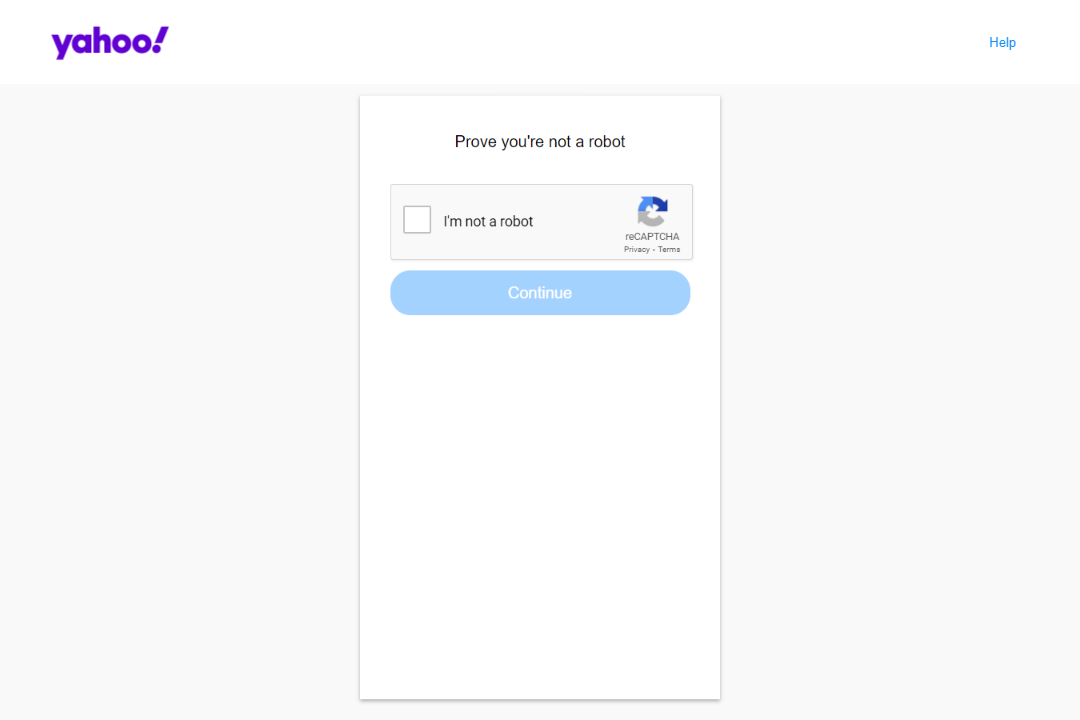
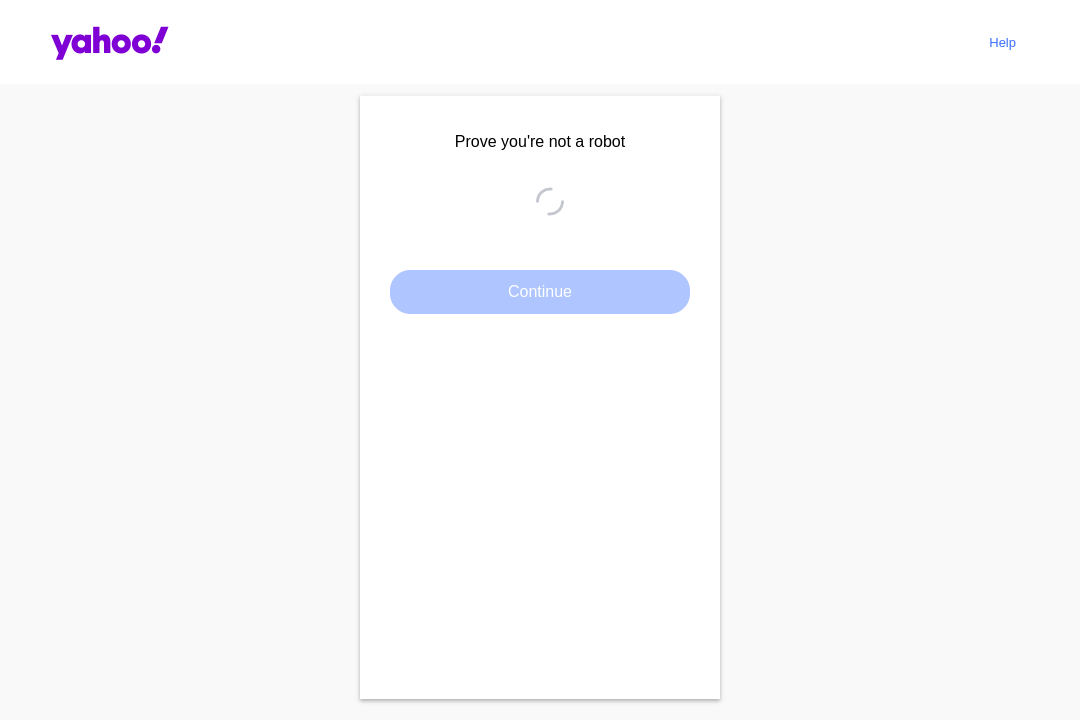
trying captcha

diff --git a/models/YahooMail.js b/models/YahooMail.js
@@ -17,7 +17,13 @@ module.exports = class YahooMail {
 
     async createMailAccount() {
         // browser = await puppeteer.launch({ headless: true });
-        puppeteer.launch({ headless: false }).then(async browser => {
+        puppeteer.launch({ 
+            ignoreDefaultArgs: true,
+            headless: false,
+            executablePath: '/usr/bin/google-chrome',
+            args: [
+            ],
+        }).then(async browser => {
             const page = await browser.newPage();
             await page.setViewport({
                 width: 1080,
@@ -49,7 +55,7 @@ module.exports = class YahooMail {
                 'password': faker.internet.password(),
                 'shortCountryCode': 'RU',
                 'phone': phoneNumber,
-                'mm': date.getMonth(),
+                'mm': Math.floor(Math.random() * 11) + 1,
                 'dd': Math.floor(Math.random() * 28) + 1,
                 'yyyy': date.getFullYear(),
             }
@@ -169,18 +175,40 @@ module.exports = class YahooMail {
 
                 const apiKey = '3bf8b2b71f3e87f9ab2862df0dfead26'
 
-                const requestId = await initiateCaptchaRequest(apiKey);
+                //const requestId = await initiateCaptchaRequest(apiKey);
 
-                const response = await pollForRequestResults(apiKey, requestId);
-                console.log(response)
+                // const response = await pollForRequestResults(apiKey, requestId);
+                // console.log(response)
+                // await page.evaluate((response)=> {
+                //     document.getElementById('g-recaptcha-response').innerText=response 
+                // },response);
+
+                // page.click('#recaptcha-submit');
+
+                // let pageCookies = await page.cookies()
+                // for(let i=0; i<pageCookies.length;i++) {
+                //     if(pageCookies[i]['name'] === 'AS') {
+                //         pageCookies[i]['SameSite'] = 'None';
+                //         page.setCookie(pageCookies[i]);
+                //         console.log('twerkabay')
+                //     }
+                // }
+                page.waitFor(2000)
+                
+                let frameSelector = await page.$('#recaptcha-iframe')
+                let myHTML = await frameSelector.contentFrame()
+                let frameinTwo = await page.$('#recaptcha-iframe')
+                let myHTML2 = await frameinTwo.contentFrame()
+                //#recaptcha-script
                 await page.evaluate((response)=> {
-                    document.getElementById('g-recaptcha-response').innerText=response 
-                },response);
-
-                page.click('#recaptcha-submit');
+                //     document.getElementById('g-recaptcha-response').innerText=response 
+                // },response);
+                
+                
+                //await page.reload({ waitUntil: 'networkidle2' })
 
                 ss++;
-                filename = 'example' + ss + '.png';
+                filename = 'final' + ss + '.png';
                 await page.screenshot({ path: filename });
 
             }
@@ -197,8 +225,16 @@ module.exports = class YahooMail {
 
     }
 
+    async setYahooCookies(oneCookie) {
+
+        for(let i=0; i<oneCookie.length; i++) {
+            oneCookie[i]['sameSite'] = 'None'
+        }
+        return oneCookie;
+    }
+
     async stopTime() {
-        return Math.floor(Math.random() * Math.floor(5000));
+        return Math.floor(Math.random() * Math.floor(1000));
     }
 
     async getMailID() {
@@ -255,7 +291,7 @@ module.exports = class YahooMail {
             RecaptchaPlugin({
                 provider: {
                     id: '2captcha',
-                    token: '3bf8b2b71f3e87f9ab2862df0dfead26' // REPLACE THIS WITH YOUR OWN 2CAPTCHA API KEY ⚡
+                    token: '8d1ffc723363da12c6847c2f770bd2bc' // REPLACE THIS WITH YOUR OWN 2CAPTCHA API KEY ⚡
                 },
                 visualFeedback: true // colorize reCAPTCHAs (violet = detected, green = solved)
             })

diff --git a/test.js b/test.js
@@ -1,0 +1,96 @@
+const mailjs = require('./models/mail');
+const YahooMail = require('./models/YahooMail')
+const puppeteer = require('puppeteer-extra')
+const SMSActivate = require('sms-activate')
+const sms = new SMSActivate('940054f3775c2e49f71fd64c4c3ef116')
+
+async function mydata2() {
+
+    users = [
+      ['shriyashshingare@yahoo.com',''],
+    ]
+
+    users.map(async (udata)=> {
+      var inbox = await new mailjs().receiveMail('Bulk Mail',udata[0],udata[1]);
+      var spam = await new mailjs().receiveMail('INBOX',udata[0],udata[1]);
+      console.log(inbox);
+      console.log(spam)
+    })
+}
+
+async function mydata() {
+  var yahooMail = await new YahooMail();
+  yahooMail.createMailAccount();
+}
+
+
+async function smsTesting() {
+sms.getBalance().then(async (balance) => {
+  if (balance > 0) {
+    const { id, number } = await sms.getNumber('mb', 0) // yandex
+    console.log(`Number: ${number}, Order Id: ${id}`)
+
+    await sms.setStatus(id, 1)
+
+    // you can add timeout to here
+    const waitForCode = setInterval(async () => {
+      const code = await sms.getCode(id)
+      if (code) {
+        clearInterval(waitForCode)
+        console.log(`code received: ${code}`)
+        await sms.setStatus(id, 6)
+      }
+    }, 1000)
+  } else {
+    console.log('Balance is zero', balance)
+  }
+}).catch(console.error)
+}
+
+
+//smsTesting();
+mydata();
+
+// await sms.setStatus(id, 1)
+
+// // you can add timeout to here
+// const waitForCode = setInterval(async () => {
+//   const code = await sms.getCode(id)  //https://sms-activate.ru/stubs/handler_api.php?api_key=$api_key&action=setStatus&status=$status&id=$id&forward=$forward
+//   if (code) {
+//     clearInterval(waitForCode)
+//     console.log(`code received: ${code}`)
+//     await sms.setStatus(id, 6)
+//   }
+// }, 1000)
+
+// async function solveCaptcha() {
+//     const RecaptchaPlugin = require('puppeteer-extra-plugin-recaptcha')
+//     puppeteer.use(
+//         RecaptchaPlugin({
+//             provider: {
+//                 id: '2captcha',
+//                 token: '8d1ffc723363da12c6847c2f770bd2bc' // REPLACE THIS WITH YOUR OWN 2CAPTCHA API KEY ⚡
+//             },
+//             visualFeedback: true // colorize reCAPTCHAs (violet = detected, green = solved)
+//         })
+//     )
+
+//     // puppeteer usage as normal
+//     puppeteer.launch({ headless: true }).then(async browser => {
+//         const page = await browser.newPage()
+//         await page.goto('https://www.google.com/recaptcha/api2/demo')
+
+//         //That's it, a single line of code to solve reCAPTCHAs 🎉
+//         await page.solveRecaptchas()
+
+//         await Promise.all([
+//             page.waitForNavigation(),
+//             page.click(`#recaptcha-submit`)
+//         ])
+//         await page.screenshot({ path: 'response.png', fullPage: true })
+//         //await browser.close()
+//     })
+// }
+//solveCaptcha();
+
+
